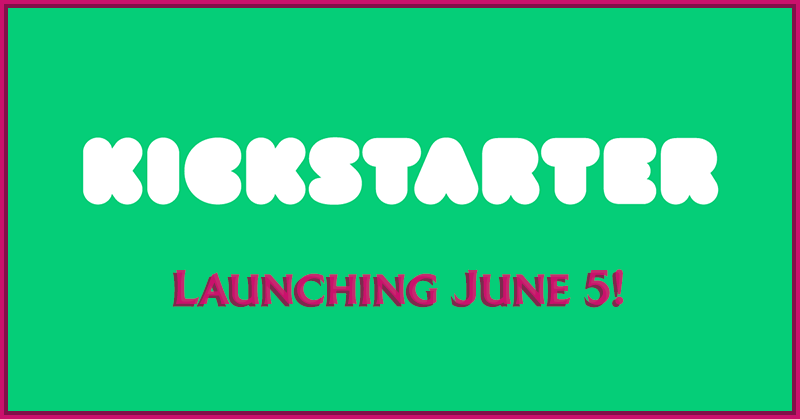
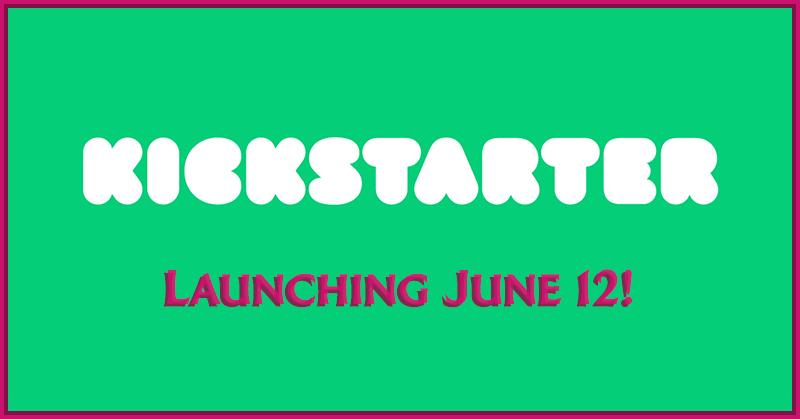
updated Kickstarter date

Changed region(s): [[0.1875, 0.6205, 0.8125, 0.7446]]

diff --git a/build/index.html b/build/index.html
@@ -1,1 +1,1 @@
-<!doctype html><html lang="en"><head><meta charset="utf-8"/><link rel="icon" href="/favicon.ico"/><meta name="viewport" content="width=device-width,initial-scale=1"/><meta name="theme-color" content="#000000"/><meta name="description" content="Web site created using create-react-app"/><link rel="apple-touch-icon" href="/logo192.png"/><link rel="stylesheet" href="https://use.fontawesome.com/releases/v5.15.2/css/all.css" integrity="sha384-vSIIfh2YWi9wW0r9iZe7RJPrKwp6bG+s9QZMoITbCckVJqGCCRhc+ccxNcdpHuYu" crossorigin="anonymous"><link href="https://fonts.googleapis.com/css2?family=PT+Sans:wght@700&display=swap" rel="stylesheet"/><link rel="preconnect" href="https://fonts.gstatic.com"><link href="https://fonts.googleapis.com/css2?family=Jura:wght@300;400;500;600;700&display=swap" rel="stylesheet"><link rel="manifest" href="/manifest.json"/><script>!function(e,t,n,a,r,i){function m(){var e={a:arguments,q:[]},t=this.push(e);return"number"!=typeof t?t:m.bind(e.q)}e.MailerLiteObject=r,m.q=m.q||[],e.ml=e.ml||m.bind(m.q),e.ml.q=e.ml.q||m.q,i=t.createElement(n);var c=t.getElementsByTagName(n)[0];i.async=1,i.src="https://static.mailerlite.com/js/universal.js?v"+~~((new Date).getTime()/1e6),c.parentNode.insertBefore(i,c)}(window,document,"script",0,"ml");var ml_account=ml("accounts","2999389","t0d2h5x4r6","load")</script><title>Descendants Of Earth</title><link href="/static/css/main.c141b3b0.chunk.css" rel="stylesheet"></head><body><noscript>You need to enable JavaScript to run this app.</noscript><div id="root"></div><script>!function(e){function t(t){for(var n,i,l=t[0],f=t[1],a=t[2],c=0,s=[];c<l.length;c++)i=l[c],Object.prototype.hasOwnProperty.call(o,i)&&o[i]&&s.push(o[i][0]),o[i]=0;for(n in f)Object.prototype.hasOwnProperty.call(f,n)&&(e[n]=f[n]);for(p&&p(t);s.length;)s.shift()();return u.push.apply(u,a||[]),r()}function r(){for(var e,t=0;t<u.length;t++){for(var r=u[t],n=!0,l=1;l<r.length;l++){var f=r[l];0!==o[f]&&(n=!1)}n&&(u.splice(t--,1),e=i(i.s=r[0]))}return e}var n={},o={1:0},u=[];function i(t){if(n[t])return n[t].exports;var r=n[t]={i:t,l:!1,exports:{}};return e[t].call(r.exports,r,r.exports,i),r.l=!0,r.exports}i.m=e,i.c=n,i.d=function(e,t,r){i.o(e,t)||Object.defineProperty(e,t,{enumerable:!0,get:r})},i.r=function(e){"undefined"!=typeof Symbol&&Symbol.toStringTag&&Object.defineProperty(e,Symbol.toStringTag,{value:"Module"}),Object.defineProperty(e,"__esModule",{value:!0})},i.t=function(e,t){if(1&t&&(e=i(e)),8&t)return e;if(4&t&&"object"==typeof e&&e&&e.__esModule)return e;var r=Object.create(null);if(i.r(r),Object.defineProperty(r,"default",{enumerable:!0,value:e}),2&t&&"string"!=typeof e)for(var n in e)i.d(r,n,function(t){return e[t]}.bind(null,n));return r},i.n=function(e){var t=e&&e.__esModule?function(){return e.default}:function(){return e};return i.d(t,"a",t),t},i.o=function(e,t){return Object.prototype.hasOwnProperty.call(e,t)},i.p="/";var l=this["webpackJsonpdoe-website"]=this["webpackJsonpdoe-website"]||[],f=l.push.bind(l);l.push=t,l=l.slice();for(var a=0;a<l.length;a++)t(l[a]);var p=f;r()}([])</script><script src="/static/js/2.a575e823.chunk.js"></script><script src="/static/js/main.dde2de93.chunk.js"></script></body></html>
+<!doctype html><html lang="en"><head><meta charset="utf-8"/><link rel="icon" href="/favicon.ico"/><meta name="viewport" content="width=device-width,initial-scale=1"/><meta name="theme-color" content="#000000"/><meta name="description" content="Web site created using create-react-app"/><link rel="apple-touch-icon" href="/logo192.png"/><link rel="stylesheet" href="https://use.fontawesome.com/releases/v5.15.2/css/all.css" integrity="sha384-vSIIfh2YWi9wW0r9iZe7RJPrKwp6bG+s9QZMoITbCckVJqGCCRhc+ccxNcdpHuYu" crossorigin="anonymous"><link href="https://fonts.googleapis.com/css2?family=PT+Sans:wght@700&display=swap" rel="stylesheet"/><link rel="preconnect" href="https://fonts.gstatic.com"><link href="https://fonts.googleapis.com/css2?family=Jura:wght@300;400;500;600;700&display=swap" rel="stylesheet"><link rel="manifest" href="/manifest.json"/><script>!function(e,t,n,a,r,i){function m(){var e={a:arguments,q:[]},t=this.push(e);return"number"!=typeof t?t:m.bind(e.q)}e.MailerLiteObject=r,m.q=m.q||[],e.ml=e.ml||m.bind(m.q),e.ml.q=e.ml.q||m.q,i=t.createElement(n);var c=t.getElementsByTagName(n)[0];i.async=1,i.src="https://static.mailerlite.com/js/universal.js?v"+~~((new Date).getTime()/1e6),c.parentNode.insertBefore(i,c)}(window,document,"script",0,"ml");var ml_account=ml("accounts","2999389","t0d2h5x4r6","load")</script><title>Descendants Of Earth</title><link href="/static/css/main.97074ec9.chunk.css" rel="stylesheet"></head><body><noscript>You need to enable JavaScript to run this app.</noscript><div id="root"></div><script>!function(e){function t(t){for(var n,i,l=t[0],f=t[1],a=t[2],c=0,s=[];c<l.length;c++)i=l[c],Object.prototype.hasOwnProperty.call(o,i)&&o[i]&&s.push(o[i][0]),o[i]=0;for(n in f)Object.prototype.hasOwnProperty.call(f,n)&&(e[n]=f[n]);for(p&&p(t);s.length;)s.shift()();return u.push.apply(u,a||[]),r()}function r(){for(var e,t=0;t<u.length;t++){for(var r=u[t],n=!0,l=1;l<r.length;l++){var f=r[l];0!==o[f]&&(n=!1)}n&&(u.splice(t--,1),e=i(i.s=r[0]))}return e}var n={},o={1:0},u=[];function i(t){if(n[t])return n[t].exports;var r=n[t]={i:t,l:!1,exports:{}};return e[t].call(r.exports,r,r.exports,i),r.l=!0,r.exports}i.m=e,i.c=n,i.d=function(e,t,r){i.o(e,t)||Object.defineProperty(e,t,{enumerable:!0,get:r})},i.r=function(e){"undefined"!=typeof Symbol&&Symbol.toStringTag&&Object.defineProperty(e,Symbol.toStringTag,{value:"Module"}),Object.defineProperty(e,"__esModule",{value:!0})},i.t=function(e,t){if(1&t&&(e=i(e)),8&t)return e;if(4&t&&"object"==typeof e&&e&&e.__esModule)return e;var r=Object.create(null);if(i.r(r),Object.defineProperty(r,"default",{enumerable:!0,value:e}),2&t&&"string"!=typeof e)for(var n in e)i.d(r,n,function(t){return e[t]}.bind(null,n));return r},i.n=function(e){var t=e&&e.__esModule?function(){return e.default}:function(){return e};return i.d(t,"a",t),t},i.o=function(e,t){return Object.prototype.hasOwnProperty.call(e,t)},i.p="/";var l=this["webpackJsonpdoe-website"]=this["webpackJsonpdoe-website"]||[],f=l.push.bind(l);l.push=t,l=l.slice();for(var a=0;a<l.length;a++)t(l[a]);var p=f;r()}([])</script><script src="/static/js/2.20a67a43.chunk.js"></script><script src="/static/js/main.995d4618.chunk.js"></script></body></html>

diff --git a/src/App.js b/src/App.js
@@ -42,7 +42,7 @@ function App() {
             <Route path='/updates-new-website' component={UpdatesNewWebsite} />
             <Route path='/updates-google-play' component={UpdatesGooglePlay} />
           </Switch>
-          <Textbox width='30%'>
+          <Textbox>
                 <div class="ml-form-embed"
                 data-account="2999389:t0d2h5x4r6"
                 data-form="4204165:v5y7r0">

diff --git a/src/components/Cards.js b/src/components/Cards.js
@@ -35,7 +35,7 @@ function Cards() {
                         />
                         <CardItem 
                             src={Kickstarter}
-                            text='Campaign launching June 5!'
+                            text='Campaign launching June 12!'
                             label='Crowdfunding'
                             path='/kickstarter'
                         />
